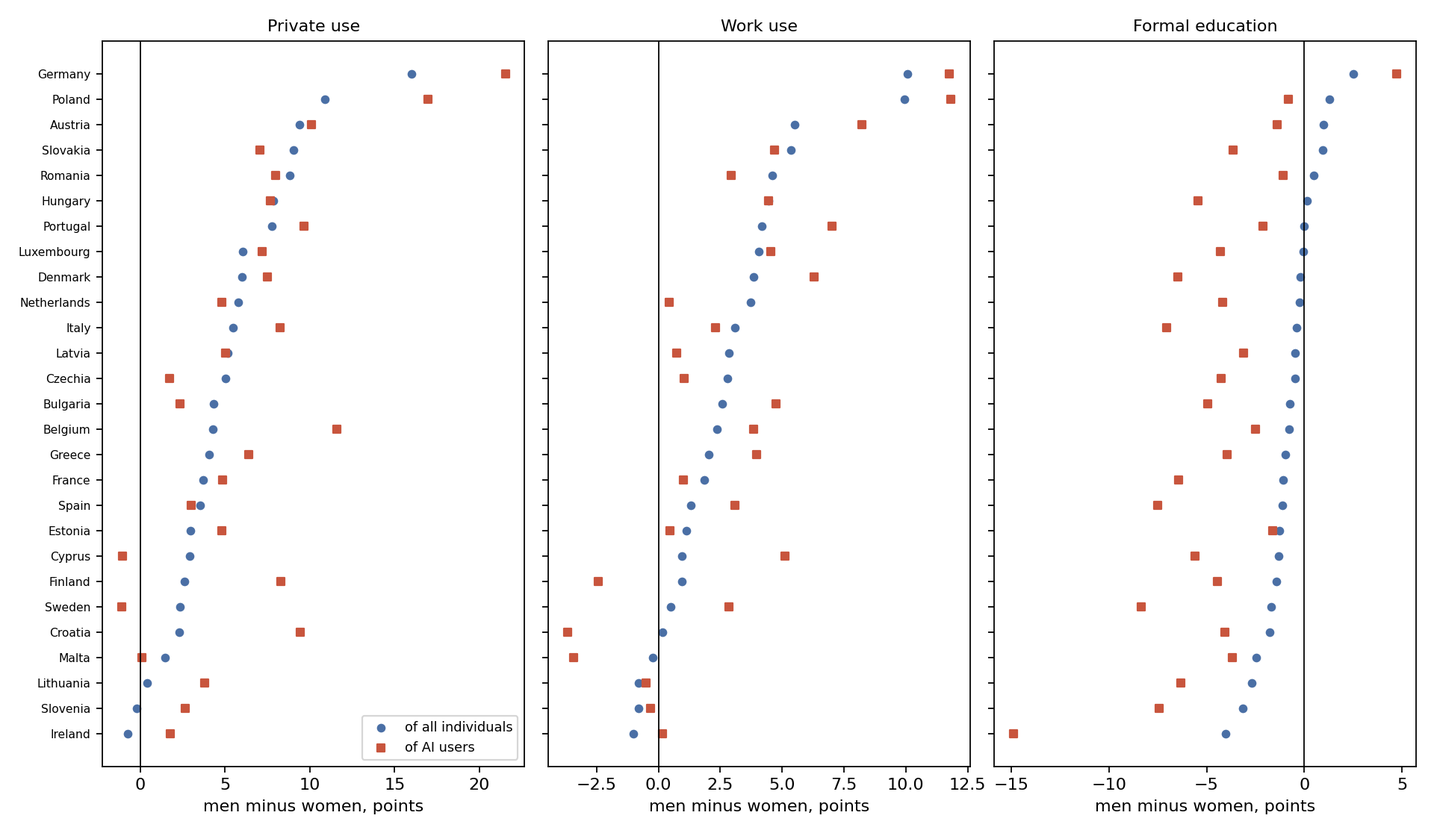
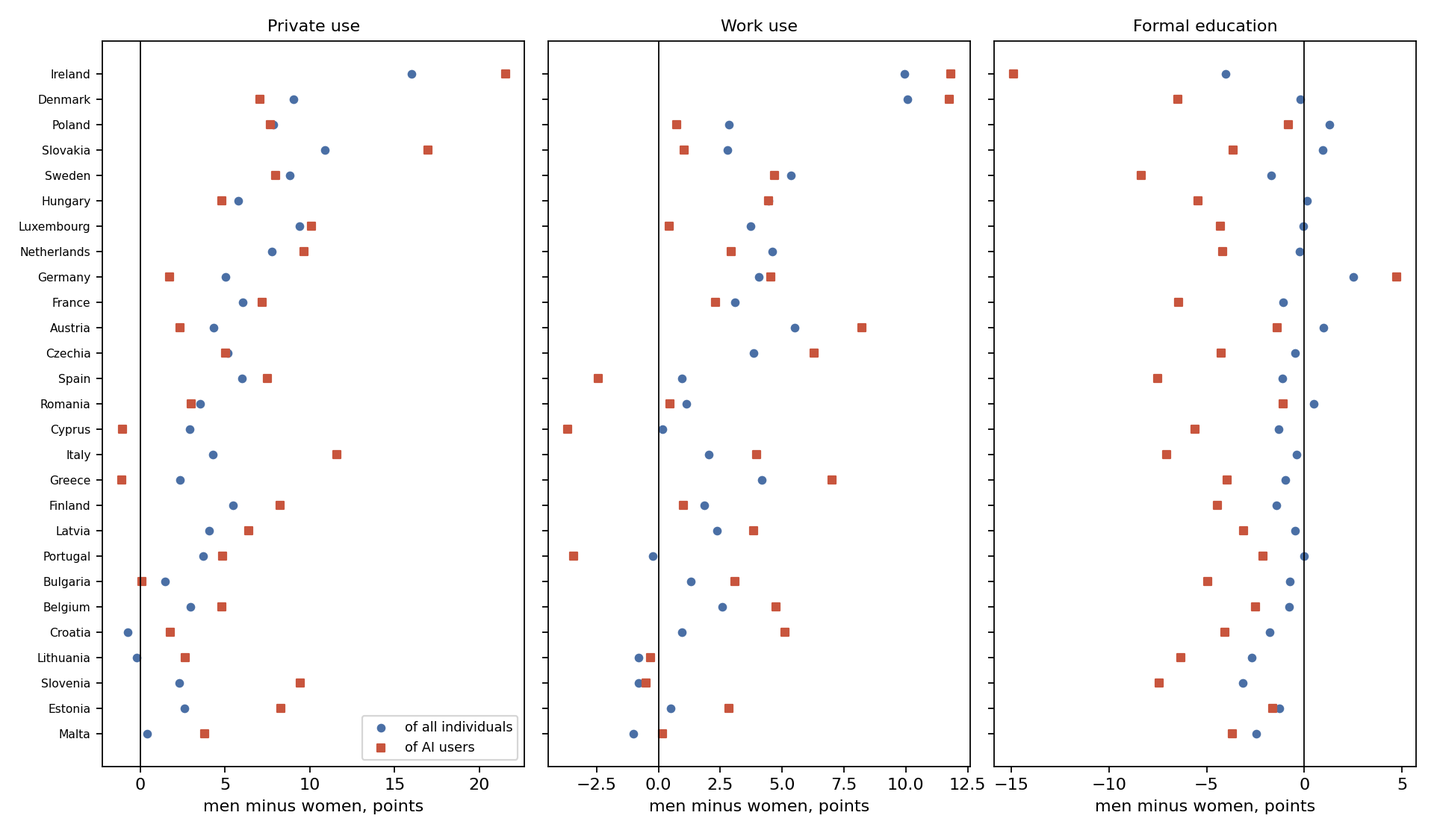
gender1: referee results items applied — fig3 labels, D3 and D4 logged with both readings, p-values not for citation, 27-set cuts, sign-beyond-bound, second implementation covers classes and H-work, true medians

diff --git a/posts/gender1/scripts/08_results_and_figures.py b/posts/gender1/scripts/08_results_and_figures.py
@@ -18,7 +18,7 @@ fig, ax = plt.subplots(1, 2, figsize=(11, 8.5), gridspec_kw={"width_ratios": [1.
 y = np.arange(len(order))
 ax[0].barh(y, [ov[g]["I_IUAI|PC_IND"]["M"] for g in order], color="#4a6fa5", alpha=.85, height=.38, label="men")
 ax[0].barh(y - .4, [ov[g]["I_IUAI|PC_IND"]["F"] for g in order], color="#c8553d", alpha=.85, height=.38, label="women")
-ax[0].set_yticks(y - .2); ax[0].set_yticklabels([NAME[g] for g in order], fontsize=8); ax[0].set_xlabel("used generative AI in the last three months,\n% of individuals aged 16–74", fontsize=9); ax[0].legend(loc="lower right", fontsize=8)
+ax[0].set_yticks(y - .2); ax[0].set_yticklabels([NAME[g] for g in order], fontsize=8); ax[0].set_xlabel("used generative AI in the last three months,\n% of individuals aged 16–74", fontsize=9); ax[0].legend(loc="upper right", fontsize=8)
 ax[0].axvline(ov["EU27_2020"]["I_IUAI|PC_IND"]["M"], color="#4a6fa5", lw=.8, ls=":"); ax[0].axvline(ov["EU27_2020"]["I_IUAI|PC_IND"]["F"], color="#c8553d", lw=.8, ls=":")
 colors = {"large-gap": "#4a6fa5", "small-gap": "#c8553d", "reversed": "#c8553d", "not distinguishable": "#9a9a9a", "not classifiable": "#d0d0d0"}
 gaps = [ov[g]["I_IUAI|PC_IND"]["gap"] for g in order]
@@ -39,20 +39,22 @@ fig, ax = plt.subplots(figsize=(7.5, 9))
 im = ax.imshow(M, cmap="RdBu_r", vmin=-12, vmax=12, aspect="auto")
 ax.set_xticks(range(6)); ax.set_xticklabels(["16–24", "25–34", "35–44", "45–54", "55–64", "65–74"]); ax.set_yticks(range(len(order2))); ax.set_yticklabels([NAME[g] for g in order2], fontsize=8)
 for i in range(len(order2)):
-    for j in range(6): ax.text(j, i, f"{M[i, j]:+.0f}", ha="center", va="center", fontsize=6.5, color="black" if abs(M[i, j]) < 8 else "white")
+    for j in range(6): ax.text(j, i, ("0" if abs(M[i, j]) < 0.5 else f"{M[i, j]:+.0f}"), ha="center", va="center", fontsize=6.5, color="black" if abs(M[i, j]) < 8 else "white")
 eu = [G["bands"]["EU27_2020"]["PC_IND"][b]["gap"] for b in BANDS]
 ax.set_title("Men minus women, points, by age band (EU27 profile: " + ", ".join(f"{v:+.1f}" for v in eu) + ")", fontsize=9)
 plt.colorbar(im, ax=ax, fraction=.03, label="percentage points"); plt.tight_layout(); plt.savefig(os.path.join(FIG, "fig2_country_by_age.png"), dpi=160); plt.close()
 
 # ---------------- Figure 3: purposes, participation vs among users
 fig, ax = plt.subplots(1, 3, figsize=(12, 7), sharey=True)
+gs = order   # one common order for all three panels: the overall gap, as Figures 1 and 2 (referee item 1)
+yy = np.arange(len(gs))
 for k, (name, title) in enumerate([("private", "Private use"), ("work", "Work use"), ("education", "Formal education")]):
     part = D["purposes"][name]["participation"]["values"]; among = D["purposes"][name]["among_users"]["values"]
-    gs = sorted(part, key=lambda g: part[g]); yy = np.arange(len(gs))
-    ax[k].scatter([part[g] for g in gs], yy, color="#4a6fa5", s=18, label="of all individuals")
+    ax[k].scatter([part.get(g, np.nan) for g in gs], yy, color="#4a6fa5", s=18, label="of all individuals")
     ax[k].scatter([among.get(g, np.nan) for g in gs], yy, color="#c8553d", s=18, marker="s", label="of AI users")
-    ax[k].axvline(0, color="black", lw=.8); ax[k].set_title(title, fontsize=10); ax[k].set_yticks(yy); ax[k].set_yticklabels([NAME[g] for g in gs], fontsize=7)
+    ax[k].axvline(0, color="black", lw=.8); ax[k].set_title(title, fontsize=10)
     ax[k].set_xlabel("men minus women, points")
+ax[0].set_yticks(yy); ax[0].set_yticklabels([NAME[g] for g in gs], fontsize=7)
 ax[0].legend(fontsize=8, loc="lower right"); plt.tight_layout(); plt.savefig(os.path.join(FIG, "fig3_purposes.png"), dpi=160); plt.close()
 
 # ---------------- Figure 4: crude vs standardised
@@ -62,7 +64,7 @@ xs = [S["standardised"][g]["crude_gap"] for g in comp]; ys = [S["standardised"][
 ax.scatter(xs, ys, color=["#c8553d" if g in S["h_composition"]["changed"] else "#4a6fa5" for g in comp], s=28)
 for g, x0, y0 in zip(comp, xs, ys): ax.annotate(g, (x0, y0), fontsize=7, xytext=(3, 3), textcoords="offset points")
 lim = [min(xs + ys) - 1, max(xs + ys) + 1]; ax.plot(lim, lim, color="grey", lw=.8, ls=":"); ax.axhline(0, color="black", lw=.6); ax.axvline(0, color="black", lw=.6)
-ax.set_xlabel("crude gap, men minus women, points"); ax.set_ylabel("gap under the EU27 age structure, points"); ax.set_title(f"Age standardisation moves {len(S['h_composition']['changed'])} of {len(comp)} countries across a tercile cut (red)", fontsize=9)
+ax.set_xlabel("crude gap, men minus women, points"); ax.set_ylabel("gap under the EU27 age structure, points"); ax.set_title(f"Age standardisation moves {S['h_composition']['tercile_changes_registered_reading']} or {len(S['h_composition']['changed'])} of {len(comp)} countries across a tercile cut (red: either reading)", fontsize=9)
 plt.tight_layout(); plt.savefig(os.path.join(FIG, "fig4_crude_vs_standardised.png"), dpi=160); plt.close()
 
 # ---------------- Figure 5: internet-composition share by band
@@ -71,7 +73,7 @@ cset = [g for g in EU27 if len(D["internet"][g]["bands"]) == 6]
 for g in cset: ax.plot(range(6), [D["internet"][g]["bands"][b]["composition_share"] for b in BANDS], color="grey", alpha=.35, lw=.8)
 ax.plot(range(6), [D["internet_composition_band_medians"][b] for b in BANDS], color="#c8553d", lw=2.2, marker="o", label="median of countries")
 ax.plot(range(6), [D["internet"]["EU27_2020"]["bands"][b]["composition_share"] for b in BANDS], color="#4a6fa5", lw=2, marker="s", label="EU27")
-ax.axhline(0, color="black", lw=.8); ax.set_xticks(range(6)); ax.set_xticklabels(["16–24", "25–34", "35–44", "45–54", "55–64", "65–74"]); ax.set_ylabel("gap among all individuals minus gap among internet users, points"); ax.legend(fontsize=8)
+ax.axhline(0, color="black", lw=.8); ax.set_xticks(range(6)); ax.set_xticklabels(["16–24", "25–34", "35–44", "45–54", "55–64", "65–74"]); ax.set_ylabel("gap (all individuals) minus\ngap (internet users), points", fontsize=9); ax.legend(fontsize=8)
 plt.tight_layout(); plt.savefig(os.path.join(FIG, "fig5_internet_composition.png"), dpi=160); plt.close()
 
 # ---------------- results.json
@@ -83,6 +85,7 @@ res = {"post": "gender1", "question": "Where is the gender gap in generative AI 
        "eu27": {"overall": eu_o["I_IUAI|PC_IND"], "internet_users": eu_o.get("I_IUAI|PC_IND_IU3"), "purposes_participation": {k: eu_o[f"{i}|PC_IND"] for k, i in [("private", "I_IUAIPR"), ("work", "I_IUAIWP"), ("education", "I_IUAIFE")]},
                 "purposes_among_users": {k: eu_o[f"{i}|PC_IND_IUAI"] for k, i in [("private", "I_IUAIPR"), ("work", "I_IUAIWP"), ("education", "I_IUAIFE")]},
                 "age_profile_gap": {b: G["bands"]["EU27_2020"]["PC_IND"][b]["gap"] for b in BANDS}, "age_profile_rates": G["bands"]["EU27_2020"]["PC_IND"],
+                "age_profile_ratio": {b: G["bands"]["EU27_2020"]["PC_IND"][b]["F"] / G["bands"]["EU27_2020"]["PC_IND"][b]["M"] for b in BANDS},
                 "education_profile": G["education"]["EU27_2020"], "standardised": S["standardised"]["EU27_2020"], "published_headline": B["published_headline"]},
        "countries": {g: {"name": NAME[g], "overall": ov[g].get("I_IUAI|PC_IND"), "internet_users": ov[g].get("I_IUAI|PC_IND_IU3"), "class": cls.get(g), "bands": G["bands"][g]["PC_IND"], "education": G["education"][g],
                          "standardised": S["standardised"].get(g), "purposes": {k: ov[g].get(f"{i}|PC_IND") for k, i in [("private", "I_IUAIPR"), ("work", "I_IUAIWP"), ("education", "I_IUAIFE")]},
@@ -91,19 +94,24 @@ res = {"post": "gender1", "question": "Where is the gender gap in generative AI 
        "extension": {g: {"name": NAME[g], "overall": ov[g].get("I_IUAI|PC_IND"), "class": S["classes_extension"].get(g), "bands": G["bands"][g]["PC_IND"], "standardised": S["standardised"].get(g), "bound": P["countries"].get(g)} for g in EXT},
        "tests": {"H_work": {k: v for k, v in D["h_work"].items() if k != "detail"}, "H_age": {k: v for k, v in G["h_age"].items() if k != "detail"}, "H_education": G["h_education"], "H_composition": {k: v for k, v in S["h_composition"].items() if k != "changes_pp"}},
        "classes": {"counts": S["class_counts"], "counts_distinguishable": S["class_counts_distinguishable"], "large_gap": cls_list("large-gap"), "small_gap": cls_list("small-gap"), "reversed_on_both_denominators": sorted(g for g, v in cls.items() if v["reversed_both_denominators"]),
-                   "reversed_on_pc_ind": sorted(g for g in EU27 if ov[g]["I_IUAI|PC_IND"]["gap"] < 0), "not_classifiable": cls_list("not classifiable"), "cuts": S["cuts"], "tercile_changes": {"gap_vs_ratio": G["terciles"]["changes_gap_vs_ratio"], "crude_vs_standardised": S["h_composition"]["tercile_changes"], "ratio_vs_standardised": S["changes_ratio_vs_std"]}},
+                   "reversed_on_pc_ind": sorted(g for g in EU27 if ov[g]["I_IUAI|PC_IND"]["gap"] < 0), "not_classifiable": cls_list("not classifiable"), "cuts": S["cuts"], "sign_beyond_bound": S["sign_beyond_bound"],
+                   "tercile_changes": {"gap_vs_ratio": G["terciles"]["changes_gap_vs_ratio"], "crude_vs_standardised_analyst_reading": S["h_composition"]["tercile_changes"], "crude_vs_standardised_registered_reading": S["h_composition"]["tercile_changes_registered_reading"],
+                                       "ratio_vs_standardised_registered_reading": S["changes_ratio_vs_std"], "ratio_vs_standardised_recut_26": S["changes_ratio_vs_std_recut_26"]}},
        "purposes": {k: {"participation": {kk: vv for kk, vv in v["participation"].items() if kk != "values"}, "among_users": {kk: vv for kk, vv in v["among_users"].items() if kk != "values"}, "sign_flips": v["sign_flips_between_denominators"]} for k, v in D["purposes"].items()},
-       "internet_composition": {"band_medians": D["internet_composition_band_medians"], "N": D["internet_set_N"], "eu27": D["internet"]["EU27_2020"]},
+       "internet_composition": {"band_medians": D["internet_composition_band_medians"], "N": D["internet_set_N"], "eu27": D["internet"]["EU27_2020"], "eu27_decomposition": D["internet_decomposition_eu27"],
+                                "reading": "a difference of gaps on two denominators; where internet use is below 100% its sign is a rescaling of the internet-user gap, not a composition that favours women; the sex difference in implied internet use is within a point in every band at EU27 level"},
        "sets": D["sets"], "flagged_appendix_rows": len(D["flagged_appendix"]), "bound": {"assumptions": P["assumptions"], "class_rule": P["class_rule"], "design_effect_check": P["design_effect_check"]},
        "second_implementation": I2, "triangulation": {"leg_i": {k: v for k, v in T["leg_i"].items() if k != "values"}, "leg_ii": T["leg_ii"]},
-       "deviations": [{"id": "D1", "what": "class-rule precedence: a geography in the bottom tercile on all three measures that is also reversed on both denominators is classed small-gap, with its reversed flag reported beside it (the registered rule lists both classes without precedence)", "effect": "no count changes; the reversed set is reported as a flag"},
+       "deviations": [{"id": "D3", "what": "H-composition's crude tercile re-cut on the 26 geographies with a standardised gap (analyst's reading) rather than the registered literal reading (crude tercile over all 27, compared on the intersection); both counts reported", "effect": "3 changes (CZ, FR, LV) against 2 (CZ, LV); verdict supported under either; distinguishable 0 under either"},
+                      {"id": "D4", "what": "an unregistered exploratory addition: the Spearman of the ratio against the feminine message share, beside the registered gap correlation; scipy p-values stored under not-for-citation keys", "effect": "no rule touched; nothing citable added"},
+                      {"id": "D1", "what": "class-rule precedence: a geography in the bottom tercile on all three measures that is also reversed on both denominators is classed small-gap, with its reversed flag reported beside it (the registered rule lists both classes without precedence)", "effect": "no count changes; the reversed set is reported as a flag"},
                       {"id": "D2", "what": "triangulation leg (ii) dropped: Henseke's country gaps are published only as a figure image", "effect": "one exploratory leg fewer"}]}
 write_json("results.json", res)
-figs = {"fig1": {"file": "outputs/figures/fig1_rates_and_gaps.png", "script": "scripts/08_results_and_figures.py", "caption": "**In every EU country but five, men were more likely than women to have used generative AI in early 2025; the gap runs from about −2 to +9 points and its class is stable across measures for only 13 of 27.** Plotted, left: the share of individuals aged 16–74 who used generative AI in the three months before the interview, by sex, EU member states, 2025 ICT survey (dotted lines: EU27 men and women). Right: men minus women in percentage points; bar colour is the persistent class under the registered rule (blue large-gap, red small-gap, grey not distinguishable, light grey not classifiable); the black line is the simple-random-sampling 95% bound from the national net sample, a lower bound; ● marks a class that survives that bound. Source: Eurostat isoc_ai_iaiu, PC_IND; N = 27."},
-        "fig2": {"file": "outputs/figures/fig2_country_by_age.png", "script": "scripts/08_results_and_figures.py", "caption": "**Among 16-to-24-year-olds women lead in 20 of 26 countries; from 25 upward men lead in 17 to 22 of 26 depending on the band, and no single band holds the largest gap in a majority of countries.** Plotted: men minus women in points, by six age bands, for the 26 EU members with all twelve sex-by-age cells published and unflagged (Ireland lacks a usable 16–24 pair). Rows sorted by the overall gap. Cell values are the published differences; band half-widths under simple random sampling are 4 to 8 points, so single cells are not distinguishable from their neighbours. Source: Eurostat isoc_ai_iaiu, PC_IND."},
+figs = {"fig1": {"file": "outputs/figures/fig1_rates_and_gaps.png", "script": "scripts/08_results_and_figures.py", "caption": "**In every EU country but five, men were more likely than women to have used generative AI in early 2025; the gap runs from about −2 to +9 points and its class is stable across measures for only 13 of 27.** The male lead exceeds the country's sampling bound in 17 of the 22 countries where men lead; none of the five female leads does. Plotted, left: the share of individuals aged 16–74 who used generative AI in the three months before the interview, by sex, EU member states, 2025 ICT survey (dotted lines: EU27 men and women). Right: men minus women in percentage points; bar colour is the persistent class under the registered rule (blue large-gap, red small-gap, grey not distinguishable, light grey not classifiable); the black line is the simple-random-sampling 95% bound from the national net sample, a lower bound; ● marks a class whose gap lies further than the bound from the tercile cut, not a lead distinguishable from zero. Source: Eurostat isoc_ai_iaiu, PC_IND; N = 27."},
+        "fig2": {"file": "outputs/figures/fig2_country_by_age.png", "script": "scripts/08_results_and_figures.py", "caption": "**Among 16-to-24-year-olds women lead in 20 of 26 countries; from 25 upward men lead in 17 to 22 of 26 depending on the band, and no single band holds the largest gap in a majority of countries.** Plotted: men minus women in points, by six age bands, for the 26 EU members with all twelve sex-by-age cells published and unflagged (Ireland lacks a usable 16–24 pair). Rows sorted by the overall gap. Cell values are the published differences; median band half-widths under simple random sampling run from about 4 points at 65–74 to 8 at 16–24, and exceed 10 for the smallest samples, so single cells are not distinguishable from their neighbours. Source: Eurostat isoc_ai_iaiu, PC_IND."},
         "fig3": {"file": "outputs/figures/fig3_purposes.png", "script": "scripts/08_results_and_figures.py", "caption": "**The male lead is in private and work use; for formal education the gap runs the other way in most countries, and more so among users.** Plotted: men minus women in points for each purpose, on two denominators: all individuals 16–74 (circles) and recent generative-AI users (squares). Purposes are multi-select and do not sum to overall use. EU members with usable pairs; N = 27 for each purpose on the all-individual denominator. Source: Eurostat isoc_ai_iaiu."},
-        "fig4": {"file": "outputs/figures/fig4_crude_vs_standardised.png", "script": "scripts/08_results_and_figures.py", "caption": "**Applying the EU27 age structure to every country lowers the gap in 25 of 26 and moves three across a tercile cut.** Plotted: each country's crude gap (x) against its gap after direct age standardisation with the EU27 2025 sex-pooled population weights (y); the dotted line is equality; red marks a country whose tercile differs between the two. Standardisation is defined only where all twelve band cells are usable (26 of 27; Ireland excluded). Source: Eurostat isoc_ai_iaiu and demo_pjan."},
-        "fig5": {"file": "outputs/figures/fig5_internet_composition.png", "script": "scripts/08_results_and_figures.py", "caption": "**Little of the gender gap is an internet-use gap: measuring among internet users instead of all individuals changes the gap by under a point at the median in every band, and by more than a point in ten countries only at 65–74.** Plotted: the gap among all individuals minus the gap among recent internet users, by age band, one grey line per EU member with all six bands usable (26), the red line the median across them, the blue line the EU27 aggregate. Source: Eurostat isoc_ai_iaiu, PC_IND and PC_IND_IU3."}}
+        "fig4": {"file": "outputs/figures/fig4_crude_vs_standardised.png", "script": "scripts/08_results_and_figures.py", "caption": "**Applying the EU27 age structure to every country lowers the gap in 25 of 26 and moves two or three across a tercile cut, depending on whether the crude tercile is cut on all 27 countries or on the 26 with a standardised gap.** Plotted: each country's crude gap (x) against its gap after direct age standardisation with the EU27 2025 sex-pooled population weights (y); the dotted line is equality; red marks a country whose tercile differs between the two. Standardisation is defined only where all twelve band cells are usable (26 of 27; Ireland excluded). Source: Eurostat isoc_ai_iaiu and demo_pjan."},
+        "fig5": {"file": "outputs/figures/fig5_internet_composition.png", "script": "scripts/08_results_and_figures.py", "caption": "**None of the gender gap is an internet-use gap: the sex difference in recent internet use is within a point in every age band, and measuring among internet users instead of all individuals changes the gap by under a point at the median in every band.** The negative values are a rescaling of the internet-user gap onto a smaller base, not a composition that favours women; only at 65–74, where about a fifth of people are not recent internet users, does the rescaling exceed a point in ten countries. Plotted: the gap among all individuals minus the gap among recent internet users, by age band, one grey line per EU member with all six bands usable (26), the red line the median across them, the blue line the EU27 aggregate. Source: Eurostat isoc_ai_iaiu, PC_IND and PC_IND_IU3."}}
 json.dump(figs, open(os.path.join(OUT, "figures.json"), "w"), indent=1)
 
 # ---- check block

diff --git a/posts/gender1/scripts/05_standardise.py b/posts/gender1/scripts/05_standardise.py
@@ -4,7 +4,7 @@ Standardised rate = Σ_b w_b p_{s,b} with the EU27 2025 sex-pooled population we
 where all twelve band cells are usable; never renormalised, never imputed. Equal-weight standardisation is
 computed as a labelled sensitivity (robustness item 6). Terciles and classes follow the registered class rule.
 """
-import json, os, sys
+import json, os, sys, statistics
 sys.path.insert(0, os.path.dirname(os.path.abspath(__file__)))
 from gender1_common import *
 
@@ -27,11 +27,15 @@ for g in EU27 + EXT + ["EU27_2020"]:
 comp_set = [g for g in EU27 if g in std]
 crude_vals = {g: std[g]["crude_gap"] for g in comp_set}; std_vals = {g: std[g]["std_gap"] for g in comp_set}
 t_crude, k_c = tercile(crude_vals, True, TIE_GAP); t_std, k_s = tercile(std_vals, True, TIE_GAP)
-changes = [g for g in comp_set if t_crude[g] != t_std[g]]
+changes = [g for g in comp_set if t_crude[g] != t_std[g]]          # analyst's reading: crude tercile re-cut on the 26 with a standardised gap
+# registered literal reading (referee item 2 / deviation D3): the crude tercile over all 27 usable geographies, compared on the intersection
+T27 = json.load(open(os.path.join(PROC, "gaps.json")))["terciles"]["gap"]
+changes_registered = [g for g in comp_set if T27[g] != t_std[g]]
 # distinguishable change: both crude and standardised lie further than the overall half-width from the (k+1)-th value they cross
 def cut_values(vals, k):
     items = sorted(vals.values(), reverse=True); return items[k], items[-k - 1]   # top cut, bottom cut
 tc_top, tc_bot = cut_values(crude_vals, k_c); ts_top, ts_bot = cut_values(std_vals, k_s)
+gap27_vals = {g: overall[g]["I_IUAI|PC_IND"]["gap"] for g in EU27}; g27_top, g27_bot = cut_values(gap27_vals, int(round(27 / 3)))   # the class table's gap cut (27-set)
 dist_changes = []
 for g in changes:
     hw = halfwidth(pw, g)
@@ -43,10 +47,13 @@ for g in changes:
     if crossed and all(crossed): dist_changes.append(g)
 N_c = len(comp_set)
 h_comp = {"usable_set": comp_set, "N": N_c, "k": k_c, "tercile_changes": len(changes), "changed": changes,
+          "reading": "crude tercile re-cut on the 26 geographies with a standardised gap (analyst's reading, deviation D3)",
+          "tercile_changes_registered_reading": len(changes_registered), "changed_registered_reading": changes_registered,
+          "registered_reading": "crude tercile over all 27 usable geographies, compared on the intersection (the pre-registration's literal text)",
           "rule": "supported if at most 8 of 26 change; against if 9 or more", "raw_verdict": "supported" if len(changes) <= 8 else "against",
           "distinguishable_changes": len(dist_changes), "distinguishable_changed": dist_changes,
           "eu27_calibration": {"crude": overall["EU27_2020"]["I_IUAI|PC_IND"]["gap"], "standardised": std["EU27_2020"]["std_gap"]},
-          "median_change_pp": sorted(std[g]["change_pp"] for g in comp_set)[N_c // 2],
+          "median_change_pp": statistics.median(std[g]["change_pp"] for g in comp_set),
           "changes_pp": {g: std[g]["change_pp"] for g in comp_set}}
 
 # ---- persistent class table (gap, ratio, standardised) on EU27; extension placed against EU27 cut values
@@ -67,8 +74,8 @@ for g in EU27:
     else:
         cls = "not distinguishable"
     hw = halfwidth(pw, g); gv = gap_vals[g]
-    if cls == "large-gap": dist = abs(gv - tc_top) > hw if hw else None
-    elif cls == "small-gap": dist = abs(gv - tc_bot) > hw if hw else None
+    if cls == "large-gap": dist = abs(gv - g27_top) > hw if hw else None     # the registered mark: distance from the (k+1)-th value on the gap measure (27-set)
+    elif cls == "small-gap": dist = abs(gv - g27_bot) > hw if hw else None
     elif cls == "reversed": dist = abs(gv) > hw if hw else None
     else: dist = None
     classes[g] = {"class": cls, "distinguishable": dist, "tercile_gap": t_gap[g], "tercile_ratio": t_ratio[g], "tercile_std": t_std.get(g), "reversed_both_denominators": rev,
@@ -84,7 +91,7 @@ ext_classes = {}
 for g in EXT:
     o = overall[g].get("I_IUAI|PC_IND")
     if not o: continue
-    tg = place(o["gap"], tc_top, tc_bot); tr = place(o["ratio"], r_top, r_bot, False, TIE_RATIO); ts = place(std.get(g, {}).get("std_gap"), ts_top, ts_bot)
+    tg = place(o["gap"], g27_top, g27_bot); tr = place(o["ratio"], r_top, r_bot, False, TIE_RATIO); ts = place(std.get(g, {}).get("std_gap"), ts_top, ts_bot)
     rev = o["F"] > o["M"] and "I_IUAI|PC_IND_IU3" in overall[g] and overall[g]["I_IUAI|PC_IND_IU3"]["F"] > overall[g]["I_IUAI|PC_IND_IU3"]["M"]
     if ts is None: cls = "not classifiable"
     elif tg == tr == ts == "top": cls = "large-gap"
@@ -97,8 +104,14 @@ counts = {c: sum(1 for v in classes.values() if v["class"] == c) for c in ["larg
 dist_counts = {c: sum(1 for v in classes.values() if v["class"] == c and v["distinguishable"]) for c in ["large-gap", "small-gap", "reversed"]}
 write_json("standardise.json", {"weights": w, "standardised": std, "h_composition": h_comp,
                                 "classes_eu27": classes, "class_counts": counts, "class_counts_distinguishable": dist_counts,
-                                "classes_extension": ext_classes, "cuts": {"gap": [tc_top, tc_bot], "std": [ts_top, ts_bot], "ratio": [r_top, r_bot]},
-                                "changes_ratio_vs_std": sum(1 for g in comp_set if t_ratio[g] != t_std[g])})
+                                "classes_extension": ext_classes, "cuts": {"gap_27": [g27_top, g27_bot], "crude_26": [tc_top, tc_bot], "std": [ts_top, ts_bot], "ratio": [r_top, r_bot]},
+                                "changes_ratio_vs_std": sum(1 for g in comp_set if t_ratio[g] != t_std[g]),
+                                "changes_ratio_vs_std_reading": "ratio tercile over 27 against the standardised tercile over 26, on the intersection (the registered reading)",
+                                "changes_ratio_vs_std_recut_26": sum(1 for g in comp_set if tercile({h: ratio_vals[h] for h in comp_set}, False, TIE_RATIO)[0][g] != t_std[g]),
+                                "sign_beyond_bound": {"male": sum(1 for g in EU27 if gap_vals[g] > 0 and halfwidth(pw, g) and gap_vals[g] > halfwidth(pw, g)),
+                                                      "female": sum(1 for g in EU27 if gap_vals[g] < 0 and halfwidth(pw, g) and -gap_vals[g] > halfwidth(pw, g)),
+                                                      "neither": sum(1 for g in EU27 if not (halfwidth(pw, g) and abs(gap_vals[g]) > halfwidth(pw, g))),
+                                                      "male_lead_countries": sum(1 for g in EU27 if gap_vals[g] > 0), "female_lead_countries": sum(1 for g in EU27 if gap_vals[g] < 0)}})
 
 # ---- check block
 assert abs(sum(w.values()) - 1) < 1e-9
@@ -106,8 +119,7 @@ assert N_c == 26 and k_c == 9 and "IE" not in std
 eu = std["EU27_2020"]
 assert abs(eu["std_gap"] - 3.36) < 0.01 and abs(eu["crude_gap"] - 4.46) < 1e-9, eu   # the referee's disclosed EU27 calibration
 assert classes["IE"]["class"] == "not classifiable"
-assert all(v["class"] != "not distinguishable" or True for v in classes.values())
 print(f"standardised for {len(std)} geographies; EU27 crude {eu['crude_gap']:.2f} -> standardised {eu['std_gap']:.2f}")
-print(f"H-composition: N={N_c}; tercile changes {len(changes)} ({changes}); distinguishable {len(dist_changes)}; verdict {h_comp['raw_verdict']}; median change {h_comp['median_change_pp']:.2f} pp")
+print(f"H-composition: N={N_c}; tercile changes {len(changes)} ({changes}) analyst's reading, {len(changes_registered)} ({changes_registered}) registered reading; distinguishable {len(dist_changes)}; verdict {h_comp['raw_verdict']}; median change {h_comp['median_change_pp']:.2f} pp")
 print(f"classes EU27: {counts}; distinguishable {dist_counts}")
 print("CHECKS PASSED")

diff --git a/posts/gender1/scripts/06_denominators_and_purposes.py b/posts/gender1/scripts/06_denominators_and_purposes.py
@@ -1,7 +1,7 @@
 """gender1 · script 06 · purposes (H-work), the internet-user denominator and the internet-composition share, purposes among users,
 flagged-cell appendix, EU27 against extension.
 """
-import json, os, sys
+import json, os, sys, statistics
 sys.path.insert(0, os.path.dirname(os.path.abspath(__file__)))
 from gender1_common import *
 
@@ -20,7 +20,8 @@ for g in work_set:
 N_w = len(work_set)
 h_work = {"usable_set": work_set, "N": N_w, "raw_favour": fav, "raw_majority": fav > N_w / 2, "threshold_19": fav >= 19,
           "distinguishable_favour": dist_fav, "distinguishable_against": dist_against, "no_bound": [g for g in work_set if halfwidth(pw, g) is None],
-          "verdict": ("supported" if fav > N_w / 2 else "against"), "reading": ("not distinguishable from an even split" if fav < 19 and fav > N_w - 19 else ("beyond the 0.026 chance threshold" if fav >= 19 or fav <= N_w - 19 else "")),
+          "verdict": ("supported" if fav > N_w / 2 else "against"), "reading": ("not distinguishable from an even split" if fav < 19 and fav > N_w - 19 else ("beyond the 0.026 chance threshold (19 or more of 27 in favour, or 23 or more against, each one-sided 0.026 under an even split)" if fav >= 19 or fav <= N_w - 19 else "")),
+          "one_sided_probability_of_realised_count_under_even_split": sum(math.comb(N_w, i) for i in range(0, fav + 1)) / 2 ** N_w if fav <= N_w / 2 else sum(math.comb(N_w, i) for i in range(fav, N_w + 1)) / 2 ** N_w,
           "among_users": {g: overall[g]["I_IUAIWP|PC_IND_IUAI"]["gap"] - overall[g]["I_IUAIPR|PC_IND_IUAI"]["gap"] for g in EU27 if "I_IUAIWP|PC_IND_IUAI" in overall[g] and "I_IUAIPR|PC_IND_IUAI" in overall[g]},
           "detail": detail}
 h_work["among_users_favour"] = sum(1 for v in h_work["among_users"].values() if v > 0); h_work["among_users_N"] = len(h_work["among_users"])
@@ -30,9 +31,9 @@ purposes = {}
 for ind, name in [("I_IUAIPR", "private"), ("I_IUAIWP", "work"), ("I_IUAIFE", "education")]:
     part = {g: overall[g][f"{ind}|PC_IND"]["gap"] for g in EU27 if f"{ind}|PC_IND" in overall[g]}
     among = {g: overall[g][f"{ind}|PC_IND_IUAI"]["gap"] for g in EU27 if f"{ind}|PC_IND_IUAI" in overall[g]}
-    purposes[name] = {"participation": {"N": len(part), "positive": sum(v > 0 for v in part.values()), "negative": sum(v < 0 for v in part.values()), "median_gap": sorted(part.values())[len(part) // 2], "values": part,
+    purposes[name] = {"participation": {"N": len(part), "positive": sum(v > 0 for v in part.values()), "negative": sum(v < 0 for v in part.values()), "median_gap": statistics.median(part.values()), "values": part,
                                         "eu27": overall["EU27_2020"].get(f"{ind}|PC_IND")},
-                      "among_users": {"N": len(among), "positive": sum(v > 0 for v in among.values()), "negative": sum(v < 0 for v in among.values()), "median_gap": sorted(among.values())[len(among) // 2], "values": among,
+                      "among_users": {"N": len(among), "positive": sum(v > 0 for v in among.values()), "negative": sum(v < 0 for v in among.values()), "median_gap": statistics.median(among.values()), "values": among,
                                       "eu27": overall["EU27_2020"].get(f"{ind}|PC_IND_IUAI")},
                       "sign_flips_between_denominators": sum(1 for g in part if g in among and (part[g] > 0) != (among[g] > 0))}
 
@@ -47,7 +48,13 @@ for g in EU27 + ["EU27_2020"]:
         if b1 and b3: row["bands"][b] = {"gap_pc_ind": b1["gap"], "gap_iu3": b3["gap"], "composition_share": b1["gap"] - b3["gap"]}
     internet[g] = row
 comp_set = [g for g in EU27 if len(internet[g]["bands"]) == 6]
-band_medians = {b: sorted(internet[g]["bands"][b]["composition_share"] for g in comp_set)[len(comp_set) // 2] for b in BANDS}
+band_medians = {b: statistics.median(internet[g]["bands"][b]["composition_share"] for g in comp_set) for b in BANDS}
+# referee item 12: the decomposition gap_IND = r̄ (q_M − q_F) + q̄ (r_M − r_F), with r the implied internet-use rate p_IND / p_IU3 by sex and band (EU27)
+decomp = {}
+for b in BANDS:
+    b1 = bands["EU27_2020"]["PC_IND"][b]; b3 = bands["EU27_2020"]["PC_IND_IU3"][b]
+    rF, rM = b1["F"] / b3["F"], b1["M"] / b3["M"]; qF, qM = b3["F"], b3["M"]
+    decomp[b] = {"implied_internet_use_F": rF, "implied_internet_use_M": rM, "rescaling_term": ((rF + rM) / 2) * (qM - qF) - (qM - qF), "internet_use_gap_term": ((qF + qM) / 2) * (rM - rF)}
 
 # ---- flagged-cell appendix: overall pairs that would exist if flagged cells were allowed
 flagged_appendix = []
@@ -61,12 +68,12 @@ for g in EU27 + EXT:
 # ---- EU27 against the extension and the full 35, overall gap
 ext_gaps = {g: overall[g]["I_IUAI|PC_IND"]["gap"] for g in EXT if "I_IUAI|PC_IND" in overall[g]}
 eu_gaps = {g: overall[g]["I_IUAI|PC_IND"]["gap"] for g in EU27}
-sets = {"eu27": {"N": 27, "median": sorted(eu_gaps.values())[13], "reversed": sorted(g for g, v in eu_gaps.items() if v < 0)},
-        "extension": {"N": len(ext_gaps), "median": sorted(ext_gaps.values())[len(ext_gaps) // 2], "reversed": sorted(g for g, v in ext_gaps.items() if v < 0)},
-        "all35": {"N": 27 + len(ext_gaps), "median": sorted(list(eu_gaps.values()) + list(ext_gaps.values()))[(27 + len(ext_gaps)) // 2]}}
+sets = {"eu27": {"N": 27, "median": statistics.median(eu_gaps.values()), "reversed": sorted(g for g, v in eu_gaps.items() if v < 0)},
+        "extension": {"N": len(ext_gaps), "median": statistics.median(ext_gaps.values()), "reversed": sorted(g for g, v in ext_gaps.items() if v < 0)},
+        "all35": {"N": 27 + len(ext_gaps), "median": statistics.median(list(eu_gaps.values()) + list(ext_gaps.values()))}}
 
 write_json("denominators_purposes.json", {"h_work": h_work, "purposes": purposes, "internet": internet, "internet_composition_band_medians": band_medians,
-                                          "internet_set_N": len(comp_set), "flagged_appendix": flagged_appendix, "sets": sets})
+                                          "internet_set_N": len(comp_set), "internet_decomposition_eu27": decomp, "flagged_appendix": flagged_appendix, "sets": sets})
 
 # ---- check block
 assert N_w == 27, N_w

diff --git a/posts/gender1/scripts/04_second_implementation.py b/posts/gender1/scripts/04_second_implementation.py
@@ -70,6 +70,33 @@ t_c = tercile(crude); t_s = tercile(std)
 assert sum(1 for g in crude if t_c[g] != t_s[g]) == S["h_composition"]["tercile_changes"]
 gap_all = {g: G["overall"][g]["I_IUAI|PC_IND"]["gap"] for g in EU27}; ratio_all = {g: G["overall"][g]["I_IUAI|PC_IND"]["ratio"] for g in EU27}
 assert tercile(gap_all) == G["terciles"]["gap"] and tercile(ratio_all, False, 0.01) == G["terciles"]["ratio"]
+# registered literal reading of H-composition (27-set crude tercile against the 26-set standardised tercile, on the intersection)
+t27 = tercile(gap_all); assert sum(1 for g in std if t27[g] != t_s[g]) == S["h_composition"]["tercile_changes_registered_reading"]
+# persistent class table, marks and H-work (referee item 9): recomputed here from the independent read
+D = json.load(open(os.path.join(PROC, "denominators_purposes.json"))); P27 = P["countries"]
+t_r = tercile(ratio_all, False, 0.01)
+def cuts(vals, larger=True):
+    items = sorted(vals.values(), reverse=larger); k = int(round(len(vals) / 3)); return items[k], items[-k - 1]
+g_top, g_bot = cuts(gap_all); s_top, s_bot = cuts(std)
+for g in EU27:
+    o = pr(g, "I_IUAI", "PC_IND", "Y16_74"); o3 = pr(g, "I_IUAI", "PC_IND_IU3", "Y16_74")
+    rev = o[0] > o[1] and o3 is not None and o3[0] > o3[1]
+    if g not in std: cls = "not classifiable"
+    elif t27[g] == t_r[g] == t_s[g] == "top": cls = "large-gap"
+    elif t27[g] == t_r[g] == t_s[g] == "bottom": cls = "small-gap"
+    elif rev: cls = "reversed"
+    else: cls = "not distinguishable"
+    assert cls == S["classes_eu27"][g]["class"], (g, cls, S["classes_eu27"][g]["class"])
+    hw = P27.get(g, {}).get("gap_halfwidth95_pp"); gv = o[1] - o[0]
+    mark = (abs(gv - g_top) > hw) if cls == "large-gap" else (abs(gv - g_bot) > hw) if cls == "small-gap" else (abs(gv) > hw) if cls == "reversed" else None
+    assert mark == S["classes_eu27"][g]["distinguishable"], (g, mark)
+fav = dfav = dag = 0
+for g in EU27:
+    w_ = pr(g, "I_IUAIWP", "PC_IND", "Y16_74"); p_ = pr(g, "I_IUAIPR", "PC_IND", "Y16_74")
+    d = (w_[1] - w_[0]) - (p_[1] - p_[0]); fav += d > 0
+    hw = P27[g]["gap_halfwidth95_pp"]; dfav += d > math.sqrt(2) * hw; dag += d < -math.sqrt(2) * hw
+assert (fav, dfav, dag) == (D["h_work"]["raw_favour"], D["h_work"]["distinguishable_favour"], D["h_work"]["distinguishable_against"]), (fav, dfav, dag)
+n_checked += 27 * 2 + 3
 
 # ---- synthetic recovery
 rng_bands = {"Y16_24": (60, 62), "Y25_34": (50, 55), "Y35_44": (40, 44), "Y45_54": (30, 32), "Y55_64": (18, 20), "Y65_74": (6, 9)}
@@ -96,6 +123,6 @@ t1 = tercile(syn); assert [g for g, v in t1.items() if v == "top"] == ["DK"]
 json.dump({"tolerance": tol, "checked": n_checked, "max_abs_difference": worst,
            "synthetic": {"standardised_gap_recovered": True, "equal_rates_all_middle": True, "composition_effect_recovered_pp": crude2, "single_large_gap_geography": "DK"}},
           open(os.path.join(PROC, "second_implementation.json"), "w"), indent=1)
-print(f"second implementation: {n_checked} quantities agree to {worst:.1e}; H-age {a_raw}/{b_raw}, H-education {hi}, composition changes {S['h_composition']['tercile_changes']} reproduced")
+print(f"second implementation: {n_checked} quantities agree to {worst:.1e}; H-age {a_raw}/{b_raw}, H-education {hi}, composition changes {S['h_composition']['tercile_changes']} (registered reading {S['h_composition']['tercile_changes_registered_reading']}), class table, marks and H-work {fav}/{dfav}/{dag} reproduced")
 print(f"synthetic: standardised gap recovered; equal rates -> all middle; composition effect {crude2:.2f} pp crude vs 0 standardised; single large-gap geography recovered")
 print("CHECKS PASSED")

diff --git a/posts/gender1/scripts/07_triangulation.py b/posts/gender1/scripts/07_triangulation.py
@@ -23,13 +23,15 @@ rho, pval = spearmanr(gaps, shares)
 ratios = [overall[g]["I_IUAI|PC_IND"]["ratio"] for g, _, _ in pairs]
 rho_r, pval_r = spearmanr(ratios, shares)
 out = {"leg_i": {"source": "OpenAI Signals share_of_messages_by_gender_country_month.csv, feminine, 2025-06-01", "N": len(pairs), "missing_eu27": [g for g in EU27 if code[g] not in fem],
-                 "spearman_gap_vs_feminine_share": rho, "p_value_gap": pval, "spearman_ratio_vs_feminine_share": rho_r, "p_value_ratio": pval_r,
+                 "spearman_gap_vs_feminine_share": rho, "scipy_p_not_for_citation_gap": pval,
+                 "spearman_ratio_vs_feminine_share_UNREGISTERED_ADDITION": rho_r, "scipy_p_not_for_citation_ratio": pval_r,
+                 "note": "one Spearman registered (gap vs share); the ratio correlation is an unregistered exploratory addition logged in the notebook; no p-value is registered and none may be cited",
                  "expected_sign": "negative for the gap (a larger male lead in the survey should go with a smaller feminine share of messages), positive for the ratio",
                  "values": [{"geo": g, "gap": a, "feminine_share": b} for g, a, b in pairs],
                  "caveats": "name-inferred gender; message share, not people; consumer ChatGPT; a share of messages within a country, not a use rate; exploratory, in no rule"},
        "leg_ii": {"status": "dropped by rule", "reason": "Henseke (2026) Figure 2 gives the country gender gaps only as an image; the figure-values ruling forbids reading values off a chart; no table is published"}}
 write_json("triangulation.json", out)
 assert len(pairs) == 26 and out["leg_i"]["missing_eu27"] and -1 <= rho <= 1
-print(f"Signals leg: N={len(pairs)} (missing {out['leg_i']['missing_eu27']}); Spearman gap vs feminine share {rho:+.3f} (p={pval:.3f}); ratio vs feminine share {rho_r:+.3f} (p={pval_r:.3f})")
+print(f"Signals leg: N={len(pairs)} (missing {out['leg_i']['missing_eu27']}); Spearman gap vs feminine share {rho:+.3f}; ratio vs feminine share {rho_r:+.3f} (unregistered addition; no p-value citable)")
 print("Henseke leg: dropped by rule (figure-only values)")
 print("CHECKS PASSED")

diff --git a/posts/gender1/scripts/03_gaps.py b/posts/gender1/scripts/03_gaps.py
@@ -93,7 +93,6 @@ assert abs(overall["EU27_2020"]["I_IUAIWP|PC_IND"]["gap"] - 3.00) < 1e-9 and abs
 assert abs(bands["EU27_2020"]["PC_IND"]["Y16_24"]["gap"] - (-1.67)) < 1e-9
 assert k_gap == 9 and k_ratio == 9
 assert all(v in ("top", "middle", "bottom") for v in t_gap.values())
-assert all(t_gap[g] == "top" for g in list(t_gap)[:0])  # placeholder, structure only
 for g in EU27:
     for b, d in bands[g]["PC_IND"].items():
         assert abs(d["gap"] - (d["M"] - d["F"])) < 1e-12

diff --git a/posts/gender1/notes/lab-notebook.md b/posts/gender1/notes/lab-notebook.md
@@ -34,3 +34,11 @@ No sex within employment, occupation or urbanisation; no trend; no intensity; no
 - **Deviation D1 (class-rule precedence).** The registered class rule lists large-gap, small-gap, reversed, not classifiable and not distinguishable without saying which applies when a geography meets both "bottom tercile on all three" and "reversed on both denominators". Resolved as listed: small-gap first, with the reversed flag reported beside it. No count changes; both sets are in results.json (`classes.small_gap`, `classes.reversed_on_both_denominators`).
 - **Deviation D2 (triangulation leg ii).** Henseke (2026) publishes the country gender gaps only as Figure 2, an image; under the figure-values ruling no number is read off a chart, and no table exists. Leg (ii) is dropped; leg (i) (OpenAI Signals) runs as registered.
 - Purpose-specific standardisation omitted by rule (7 usable EU27 geographies per purpose; floor 15), as pre-registered.
+
+## 2026-09-21 · referee results verification (sesn_01J46cb6JHXZWzA3d9jpA64H, $12.55): PASS WITH CHANGES; items applied
+
+- **Deviation D3 (H-composition reading).** The registered class-changes text cuts the crude tercile over all 27 usable geographies and compares on the intersection with the 26 that have a standardised gap; script 05 re-cut the crude tercile on the 26. Both are now computed and reported: 3 changes (CZ, FR, LV) on the re-cut, 2 (CZ, LV) on the registered reading; verdict "supported" and distinguishable 0 under either. The re-cut is preferred for the headline count because a tercile change should reflect standardisation rather than Ireland's absence; the registered count is beside it everywhere, including the Figure 4 title and caption. The ratio-versus-standardised count uses the registered reading (8) with the re-cut (7) reported.
+- **Deviation D4 (unregistered exploratory addition).** Script 07 also correlated the ratio with the feminine message share; it is labelled an unregistered addition in results.json. The scipy p-values are stored under not-for-citation keys; no p-value may be cited.
+- **H-work symmetric clause.** The 19-of-27 threshold is one-sided; 23 or more of 27 the other way arises under an even split with the same probability, 0.026. The realised 4 of 27 in favour (23 against) has one-sided probability 0.0002 under an even split; results.json carries it.
+- Figure 3's per-panel sorting mislabelled two panels under a shared y-axis; all three panels now use the overall-gap order with labels set once. Figure 1's legend moved off Malta's bars; its caption carries the sign-beyond-bound counts and says what the ● marks mean. Figure 2's caption gives median band half-widths and the small-sample range; zeros print as "0". Figure 5's caption states that the negative values are a denominator rescaling and that the sex difference in implied internet use is within a point in every band (the decomposition is in results.json). The class table's large-gap mark and the extension placements now use the 27-set gap cut (cuts.gap_27); no mark or placement changed (XK stays top by 0.02). Script 04 now recomputes the class table, the marks and H-work. Medians of even-length sets are true medians. Two vacuous assertions removed. EU27 band ratios added to results.json.
+- Run order for the record: 02, 03, 05, 06, 07, 04, 08.
